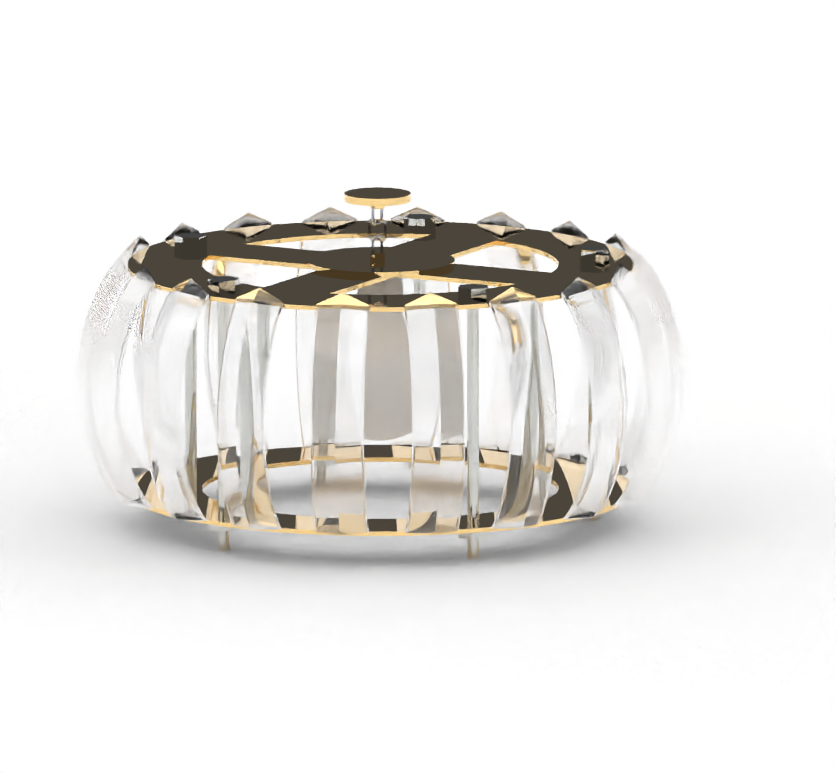
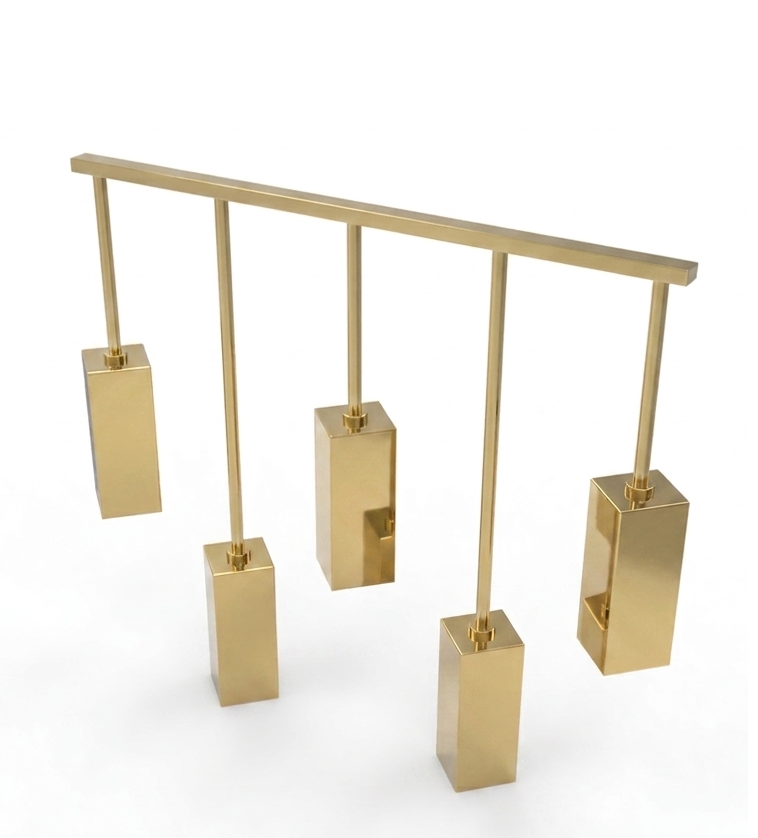
v:1.12.x

diff --git a/index.html b/index.html
@@ -66,7 +66,7 @@
 
 <div id="tasarim" class="fade-in">
   <div class="navsub">
-                <a href="#"  onclick="subb2(1)">3D Çizim(2)</a>        
+                <a href="#"  onclick="subb2(1)">3D Çizim(4)</a>        
                 <a href="#"  onclick="subb2(2)">İnstagram(9)</a>     
     </div>
 
@@ -89,11 +89,11 @@
             <div class="card">
                     <div class="cardd">
                             <div class="card_image">
-                                    <img src="img2/52.png" alt="3D Kitaplık Çizimi" >
+                                    <img src="img2/52.png" alt="3D Avize Çizimi" >
                             </div>
     
                             <div class="card_header">
-                                    <p class="z1">3D Kitaplık Çizimi</p>
+                                    <p class="z1">3D Avize Çizimi</p>
                                     <p class="z2">3D</p>
                             </div>
                             <div class="card_info">  
@@ -101,6 +101,45 @@
                             </div>
                     </div>
             </div>
+            <div class="card">
+                    <div class="cardd">
+                            <div class="card_image">
+                                    <img src="img2/53.png" alt="3D Lambader Çizimi" >
+                            </div>
+    
+                            <div class="card_header">
+                                    <p class="z1">3D Lambader Çizimi</p>
+                                    <p class="z2">3D</p>
+                            </div>
+                            <div class="card_info">  
+                                    <p class="z4">#3dçizim</p>
+                            </div>
+                    </div>
+            </div>
+            <div class="card">
+                    <div class="cardd">
+                            <div class="card_image">
+                                    <img src="img2/54.png" alt="3D Avize Çizimi" >
+                            </div>
+    
+                            <div class="card_header">
+                                    <p class="z1">3D Cam Avize Çizimi</p>
+                                    <p class="z2">3D</p>
+                            </div>
+                            <div class="card_info">  
+                                    <p class="z4">#3dçizim</p>
+                            </div>
+                    </div>
+            </div>
+ 
+
+
+
+
+
+
+
+
     </div>
 
 
